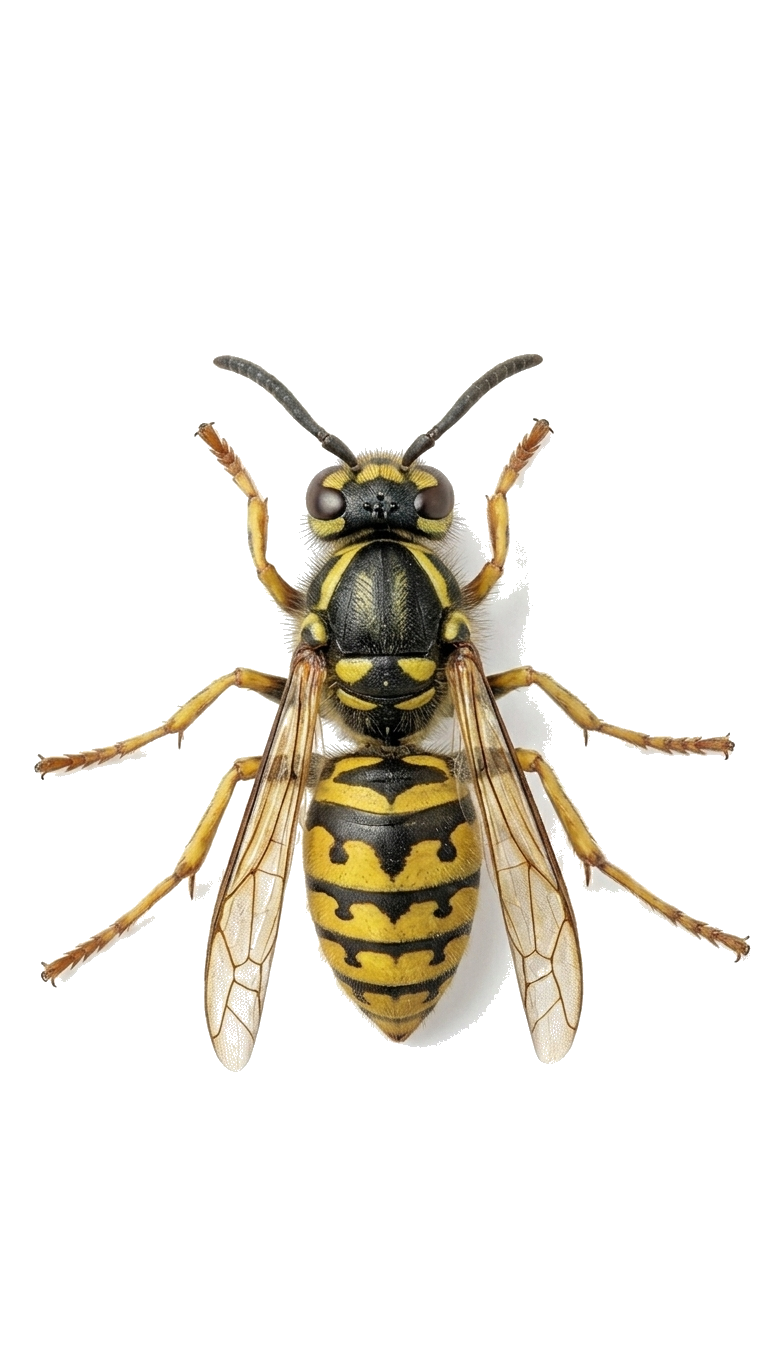
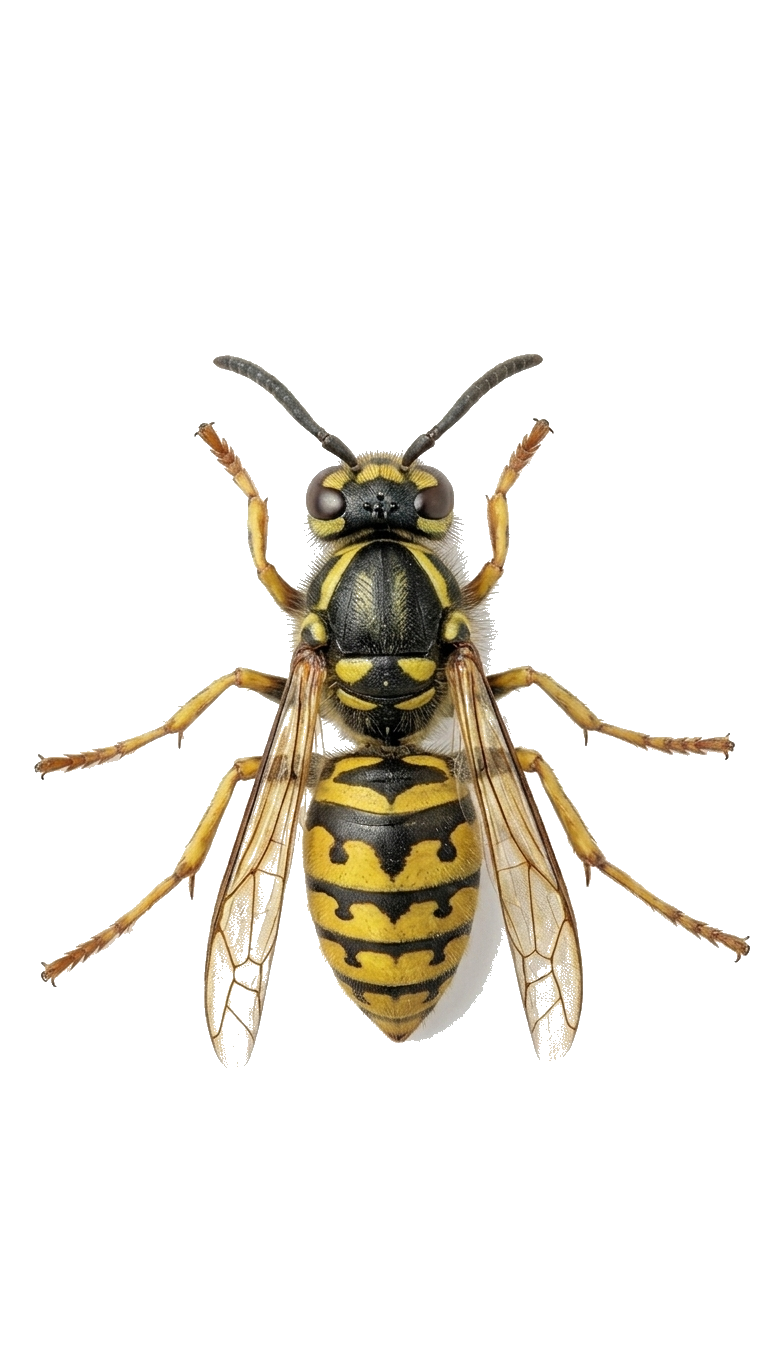
Hero: fix wasp white areas with stricter threshold, separate pigeon and mouse positions

diff --git a/css/style.css b/css/style.css
@@ -546,9 +546,9 @@ address { font-style: normal; }
 }
 
 .hero-animal--golub {
-  height: clamp(240px, 27vw, 370px);
+  height: clamp(220px, 25vw, 340px);
   right: 0;
-  top: 18%;
+  top: 5%;
   transform: scaleX(-1);
   filter: drop-shadow(0 18px 22px rgba(0,0,0,0.5));
 }
@@ -569,7 +569,7 @@ address { font-style: normal; }
 
 .hero-animal--mis {
   height: clamp(210px, 24vw, 330px);
-  right: 2%;
+  right: 18%;
   bottom: 5%;
   transform: scaleX(-1);
   filter: drop-shadow(0 22px 18px rgba(0,0,0,0.6));
@@ -2306,7 +2306,7 @@ address { font-style: normal; }
 /* Info kartice — 3 u redu, bez mape */
 .contact-info-grid {
   display: grid;
-  grid-template-columns: repeat(3, 1fr);
+  grid-template-columns: repeat(2, 1fr);
   gap: var(--space-lg);
   margin-top: var(--space-xl);
 }